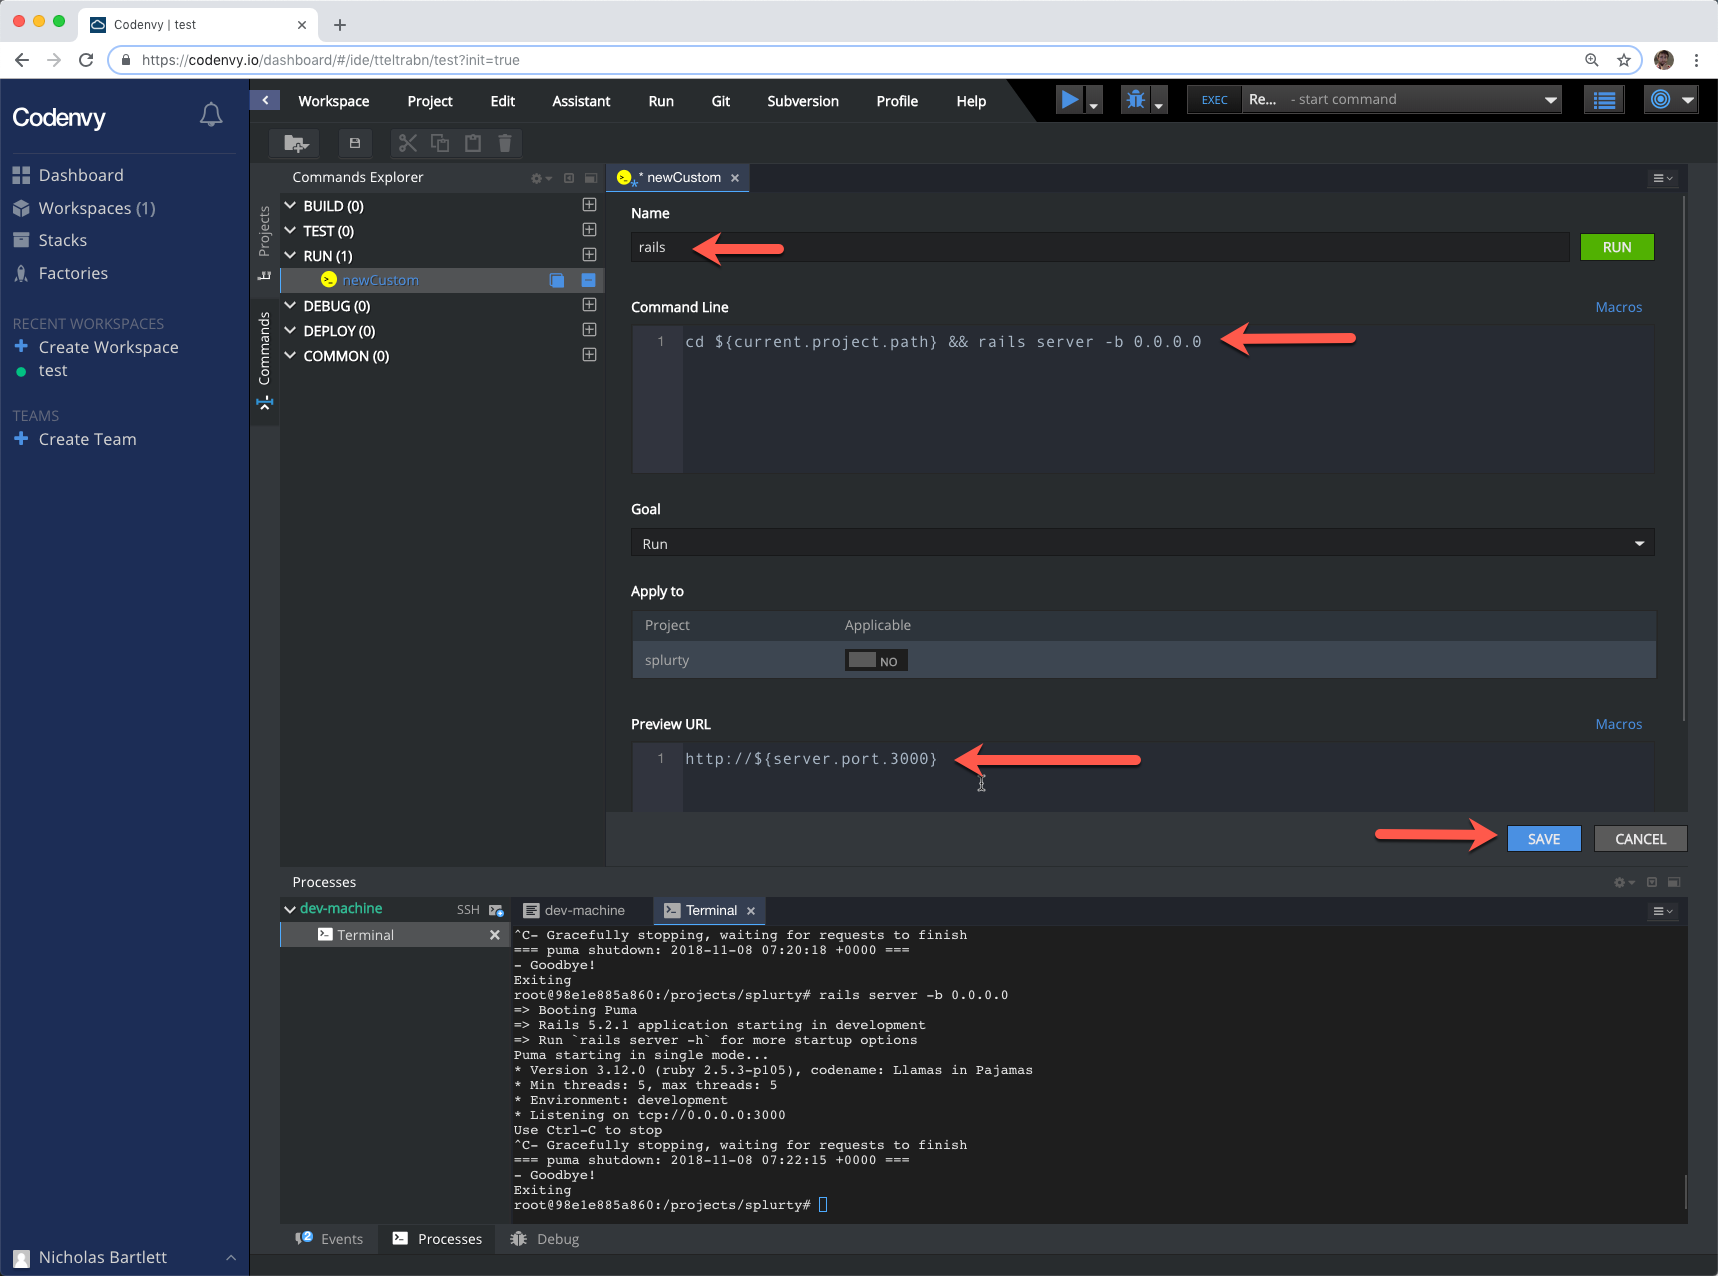
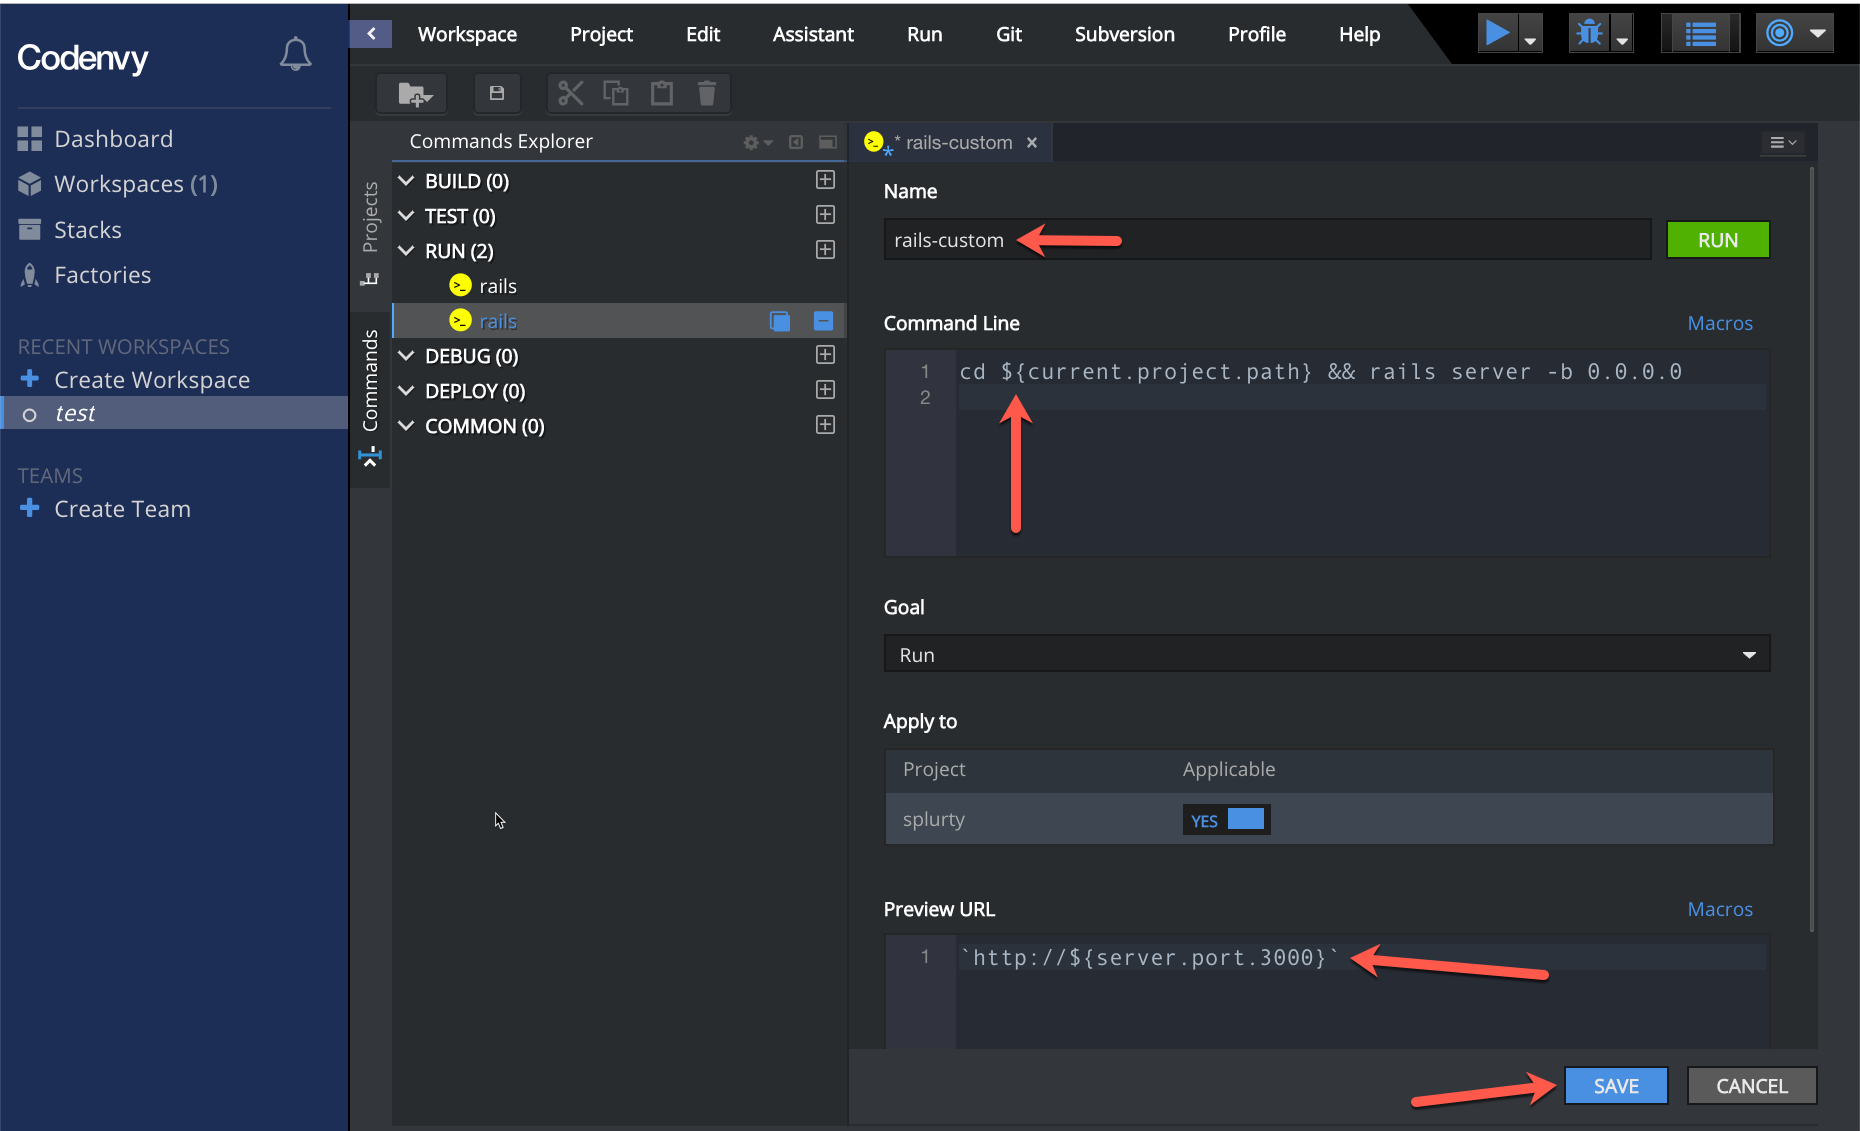
add 2FA note, update creating run configuration

diff --git a/cloud-ide.md b/cloud-ide.md
@@ -44,7 +44,7 @@ Follow these steps to get the environment set up.
 
    <img width="350" alt="Confirmation Screen" src="images/codenvy/account-setup/3.png" />
 
-4. Click the **Verify Email** button in the email sent to the address you entered in step 2.
+4. Click the **Verify Email** button in the email sent to the address you entered above.
 
    <img width="350" alt="Email Verification" src="images/codenvy/account-setup/4.png" />
 
@@ -225,24 +225,32 @@ Next, we need to set up our application to use postgres:
 
 Finally, we need to create a new run command so that we can run the application and preview the live URL. We can do this through the UI:
 
-1. Create a new run command by selecting the commands tab or by clicking the play icon in the top right:
+1. Create a new run command by selecting the **Commands** tab, clicking the **+** icon next to **RUN**, and double-clicking **Custom**:
 
-   <img width="700" alt="codenvy create run command" src="images/codenvy/project-setup/1-create-command.png" />
+   <img width="400" alt="codenvy create run command" src="images/codenvy/project-setup/1-1-create-command.png" />
+
+   <img width="400" alt="codenvy create run command select custom" src="images/codenvy/project-setup/1-2-create-command.png" />
 
 2. Enter the following configuration information for the run command you're creating:
 
-   - Name: `rails`
+   - Name: 
+      ```
+      rails-custom
+      ```
    - Command Line:
       ```sh
       cd ${current.project.path} && rails server -b 0.0.0.0
       ```
-   - Preview URL: `http://${server.port.3000}`
+   - Preview URL:
+      ```
+      http://${server.port.3000}
+      ```
   
-     <img width="700" alt="codenvy run command config" src="images/codenvy/project-setup/2-command-info.png" />
+   <img width="700" alt="codenvy run command config" src="images/codenvy/project-setup/2-command-info.png" />
 
 3. Click the **Save** button.
 
-4. Run the process by clicking the play button in the top area:
+4. Run the process by clicking the down-arrow next to the play button and choosing the desired configuration:
 
    <img width="700" alt="codenvy run process" src="images/codenvy/project-setup/3-run.png" />
 

diff --git a/account-setup.md b/account-setup.md
@@ -70,7 +70,7 @@ This step logs your computer into your heroku account.  Connecting your heroku a
 heroku keys:add
 ```
 
-This step will finalize the connection between your coding environment and the heroku service.
+Enter `Yes` when prompted to upload to Heroku. This step will finalize the connection between your coding environment and the heroku service.
 
 ## Step 3: Configure GitHub with SSH key
 
@@ -89,6 +89,8 @@ curl https://raw.githubusercontent.com/university-bootcamp/coding-environment/cl
 > **Important**:  After running the above command the command should display the text `ok!` in the terminal window.
 >
 > If it gives an error message, this usually indicates that you had problems when entering your username or password.  If this happens, try the above command again and enter your credentials another time.
+>
+> If you have two-factor authentication enabled, the above script won't work. Either disable 2FA, or follow the steps here <https://help.github.com/articles/adding-a-new-ssh-key-to-your-github-account/>
 
 #### Configure the git program
 
